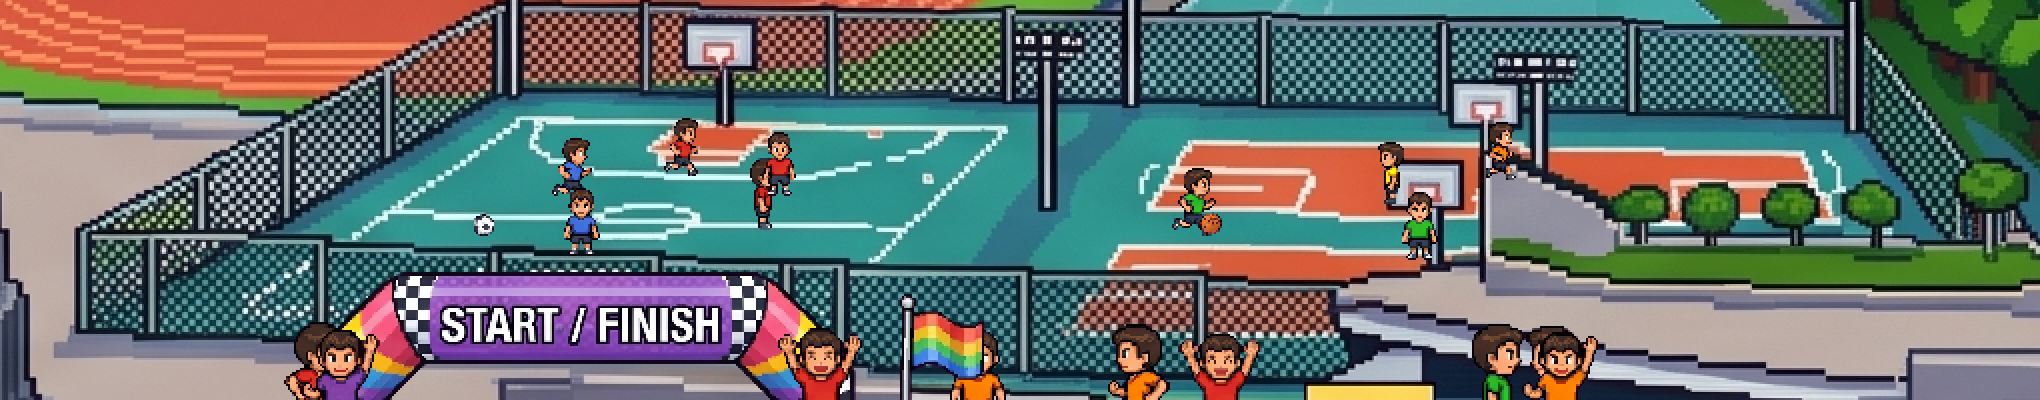
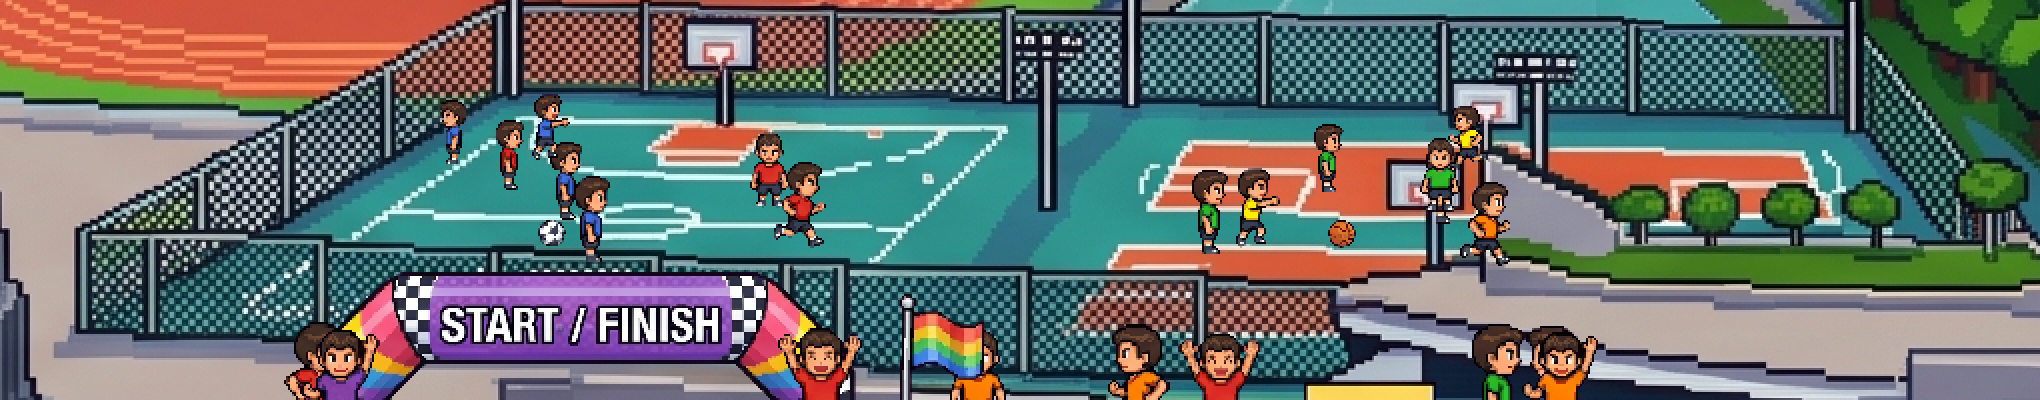
Make court players and water sprinkling actually visible (fix round 2)
Diagnosis (addendum 0006): the traffic fade hid 7-12 of 22 water
effects outright and left only ~6-13 clearly visible - no better than
the original 6 - because eight hull+wake rects blanket most of the
bay. Court players at 30-36px in a 2752px world read as specks.

- Water effects: painter's-algorithm y-layering replaces fading (each
  effect sits just behind the boat lane in front of it, so hulls
  occlude naturally and nothing draws over a hull); 34 effects,
  larger (ripples 95-175px, splashes 55-92px, 40% splash share),
  brighter. Placements still seeded-random inside the measured water
  map only. trafficFadeAt removed; rects kept for the QA overlay.
- Courts: 7 players + ball per court, heights 33-44px graded by depth,
  balls 15px - play now reads at full-scene scale.
- Vitest 20 passing; t=2/6.5 stills + court/water zooms inspected.

Changed region(s): [[0.5559, 0.27, 0.7412, 0.66], [0.2162, 0.24, 0.3397, 0.66], [0.3397, 0.33, 0.4015, 0.6]]

diff --git a/src/scene/scene.ts b/src/scene/scene.ts
@@ -11,7 +11,7 @@ import { createDragonBoat } from "../objects/dragonBoat";
 import { createKayak } from "../objects/kayak";
 import { createHanging, createProp } from "../objects/prop";
 import { createRipple } from "../objects/waterFx";
-import { boatRectsAt, type BoatSpec } from "./traffic";
+import type { BoatSpec } from "./traffic";
 import { placeWaterEffects } from "./waterMap";
 
 export const WORLD_WIDTH = 2752;
@@ -48,7 +48,7 @@ export function buildScene(store: SpriteStore, anchors: Anchors, seed: number): 
     ...buildPeople(store, rng),
     ...buildCourtPlayers(store, rng),
     ...buildBoats(store, anchors, specs),
-    ...buildWaterEffects(store, seed, specs),
+    ...buildWaterEffects(store, seed),
   ];
   return entities.sort((a, b) => a.layer - b.layer);
 }
@@ -151,17 +151,24 @@ function buildPeople(store: SpriteStore, rng: ReturnType<typeof createRng>): Ent
 function buildCourtPlayers(store: SpriteStore, rng: ReturnType<typeof createRng>): Entity[] {
   const layer = L.peopleBack;
   const players: Entity[] = [
-    createPatrol(store, { kit: "red", x1: 1860, x2: 2140, feetY: 1076, height: 36, speedPxPerSec: 62, stridePeriodSec: 0.34, layer, phaseOffset: rng.next() }),
-    createPatrol(store, { kit: "blue", x1: 2140, x2: 1860, feetY: 1062, height: 33, speedPxPerSec: 58, stridePeriodSec: 0.36, layer, phaseOffset: rng.next() }),
-    createPatrol(store, { kit: "red", x1: 1920, x2: 2060, feetY: 1050, height: 30, speedPxPerSec: 48, stridePeriodSec: 0.38, layer, phaseOffset: rng.next() }),
-    createIdler(store, { kit: "blue", x: 1990, feetY: 1088, height: 34, layer, periodSec: rng.range(3.5, 5.5), phaseOffset: rng.next() }),
-    createIdler(store, { kit: "red", x: 2090, feetY: 1058, height: 32, layer, periodSec: rng.range(3.5, 5.5), phaseOffset: rng.next() }),
-    createBall(store, { spriteId: "equipment-v2-11", x1: 1880, x2: 2120, groundY: 1084, diameter: 12, speedPxPerSec: 52, bounceHeight: 7, bouncesPerSec: 1.6, layer, phaseOffset: rng.next() }),
-    createPatrol(store, { kit: "green", x1: 2280, x2: 2540, feetY: 1080, height: 35, speedPxPerSec: 66, stridePeriodSec: 0.34, layer, phaseOffset: rng.next() }),
-    createPatrol(store, { kit: "yellow", x1: 2540, x2: 2300, feetY: 1064, height: 32, speedPxPerSec: 56, stridePeriodSec: 0.36, layer, phaseOffset: rng.next() }),
-    createPatrol(store, { kit: "orange", x1: 2340, x2: 2470, feetY: 1052, height: 30, speedPxPerSec: 46, stridePeriodSec: 0.38, layer, phaseOffset: rng.next() }),
-    createIdler(store, { kit: "green", x: 2410, feetY: 1090, height: 34, layer, periodSec: rng.range(3.5, 5.5), phaseOffset: rng.next() }),
-    createBall(store, { spriteId: "equipment-v2-10", x1: 2300, x2: 2500, groundY: 1088, diameter: 12, speedPxPerSec: 60, bounceHeight: 13, bouncesPerSec: 2.2, layer, phaseOffset: rng.next() }),
+    // Futsal court (red vs blue): 5 shuttles across three depth lanes + 2 callers
+    createPatrol(store, { kit: "red", x1: 1845, x2: 2155, feetY: 1086, height: 44, speedPxPerSec: 70, stridePeriodSec: 0.33, layer, phaseOffset: rng.next() }),
+    createPatrol(store, { kit: "blue", x1: 2155, x2: 1845, feetY: 1072, height: 40, speedPxPerSec: 64, stridePeriodSec: 0.35, layer, phaseOffset: rng.next() }),
+    createPatrol(store, { kit: "red", x1: 1890, x2: 2100, feetY: 1056, height: 36, speedPxPerSec: 54, stridePeriodSec: 0.37, layer, phaseOffset: rng.next() }),
+    createPatrol(store, { kit: "blue", x1: 2100, x2: 1900, feetY: 1044, height: 33, speedPxPerSec: 50, stridePeriodSec: 0.38, layer, phaseOffset: rng.next() }),
+    createPatrol(store, { kit: "blue", x1: 1945, x2: 2055, feetY: 1092, height: 44, speedPxPerSec: 44, stridePeriodSec: 0.36, layer, phaseOffset: rng.next() }),
+    createIdler(store, { kit: "red", x: 2085, feetY: 1064, height: 38, layer, periodSec: rng.range(3.2, 5), phaseOffset: rng.next() }),
+    createIdler(store, { kit: "blue", x: 1975, feetY: 1040, height: 33, layer, periodSec: rng.range(3.2, 5), phaseOffset: rng.next() }),
+    createBall(store, { spriteId: "equipment-v2-11", x1: 1860, x2: 2140, groundY: 1090, diameter: 15, speedPxPerSec: 58, bounceHeight: 8, bouncesPerSec: 1.7, layer, phaseOffset: rng.next() }),
+    // Basketball court (green vs yellow, one orange): same structure
+    createPatrol(store, { kit: "green", x1: 2265, x2: 2560, feetY: 1088, height: 43, speedPxPerSec: 72, stridePeriodSec: 0.33, layer, phaseOffset: rng.next() }),
+    createPatrol(store, { kit: "yellow", x1: 2560, x2: 2280, feetY: 1074, height: 39, speedPxPerSec: 62, stridePeriodSec: 0.35, layer, phaseOffset: rng.next() }),
+    createPatrol(store, { kit: "green", x1: 2320, x2: 2490, feetY: 1058, height: 35, speedPxPerSec: 52, stridePeriodSec: 0.37, layer, phaseOffset: rng.next() }),
+    createPatrol(store, { kit: "yellow", x1: 2480, x2: 2340, feetY: 1046, height: 33, speedPxPerSec: 48, stridePeriodSec: 0.38, layer, phaseOffset: rng.next() }),
+    createPatrol(store, { kit: "orange", x1: 2375, x2: 2465, feetY: 1094, height: 43, speedPxPerSec: 42, stridePeriodSec: 0.36, layer, phaseOffset: rng.next() }),
+    createIdler(store, { kit: "green", x: 2420, feetY: 1066, height: 37, layer, periodSec: rng.range(3.2, 5), phaseOffset: rng.next() }),
+    createIdler(store, { kit: "yellow", x: 2328, feetY: 1084, height: 40, layer, periodSec: rng.range(3.2, 5), phaseOffset: rng.next() }),
+    createBall(store, { spriteId: "equipment-v2-10", x1: 2290, x2: 2510, groundY: 1092, diameter: 15, speedPxPerSec: 66, bounceHeight: 16, bouncesPerSec: 2.3, layer, phaseOffset: rng.next() }),
   ];
   void COURTS; // bounds above are kept inside these measured rectangles
   return players;
@@ -200,28 +207,34 @@ const RIPPLE_SPRITES = ["ripple-v1-01", "ripple-v1-02", "ripple-v1-03", "ripple-
   "ripple-v1-07", "ripple-v2-01", "ripple-v2-03", "ripple-v2-04"] as const;
 const SPLASH_SPRITES = ["splash-01", "splash-02", "splash-03", "splash-v1-01", "splash-v1-02"] as const;
 
+export const WATER_EFFECT_COUNT = 34;
+
 /** Deterministic sprinkling layout: seeded-random points inside the mapped
  *  open water (scene/waterMap.ts), own RNG stream so QA can reproduce it. */
 export function waterEffectPlacements(seed: number): WaterEffectPlacement[] {
   const rng = createRng((seed ^ 0x9e3779b9) >>> 0);
-  return placeWaterEffects(rng, 22).map((point) => {
-    const isSplash = rng.next() < 0.3;
+  return placeWaterEffects(rng, WATER_EFFECT_COUNT, 108).map((point) => {
+    const isSplash = rng.next() < 0.4;
     return {
       x: point.x, y: point.y,
       spriteId: isSplash ? rng.pick(SPLASH_SPRITES) : rng.pick(RIPPLE_SPRITES),
-      width: isSplash ? rng.range(42, 72) : rng.range(78, 148),
-      periodSec: rng.range(2.4, 4.4),
+      width: isSplash ? rng.range(55, 92) : rng.range(95, 175),
+      periodSec: rng.range(2.2, 4.2),
       phaseOffset: rng.next(),
     };
   });
 }
 
-function buildWaterEffects(store: SpriteStore, seed: number, specs: readonly BoatSpec[]): Entity[] {
-  let cached = { t: Number.NaN, rects: [] as ReturnType<typeof boatRectsAt> };
-  const trafficAt = (timeSec: number) => {
-    if (cached.t !== timeSec) cached = { t: timeSec, rects: boatRectsAt(store, specs, timeSec) };
-    return cached.rects;
-  };
+/** Painter's-algorithm layer for a flat water effect: just behind the boat
+ *  lane in front of it (lane waterlines: far ~1388-1402, mid ~1430-1444,
+ *  near ~1470+), so hulls occlude effects behind them naturally. */
+export function layerForWaterEffect(y: number): number {
+  if (y < 1395) return L.boatFar - 1;
+  if (y < 1440) return L.boatMid - 1;
+  return L.boatNear - 1;
+}
+
+function buildWaterEffects(store: SpriteStore, seed: number): Entity[] {
   return waterEffectPlacements(seed).map((placement) =>
-    createRipple(store, { ...placement, layer: L.ripple, trafficAt }));
+    createRipple(store, { ...placement, layer: layerForWaterEffect(placement.y) }));
 }

diff --git a/tests/unit/waterMap.test.ts b/tests/unit/waterMap.test.ts
@@ -1,7 +1,8 @@
 import { describe, expect, it } from "vitest";
 import { createRng } from "../../src/lib/rng";
 import { patrolAt } from "../../src/objects/character";
-import { boatRectsAt, trafficFadeAt, type BoatSpec } from "../../src/scene/traffic";
+import { boatRectsAt, type BoatSpec } from "../../src/scene/traffic";
+import { WATER_EFFECT_COUNT, layerForWaterEffect, waterEffectPlacements } from "../../src/scene/scene";
 import { isOpenWater, placeWaterEffects, shorelineYAt } from "../../src/scene/waterMap";
 import { SpriteStore } from "../../src/lib/sprites";
 import type { SpriteEntry } from "../../src/lib/types";
@@ -65,14 +66,27 @@ describe("patrolAt (court shuttles / boardwalk)", () => {
   });
 });
 
-describe("trafficFadeAt", () => {
-  const rect = { x1: 100, y1: 100, x2: 300, y2: 160 };
-  it("is 0 under a hull, 1 in clear water, partial in between", () => {
-    expect(trafficFadeAt(200, 130, [rect])).toBe(0);
-    expect(trafficFadeAt(200, 400, [rect])).toBe(1);
-    expect(trafficFadeAt(200, 184, [rect], 48)).toBeCloseTo(0.5);
-    expect(trafficFadeAt(0, 0, [])).toBe(1);
+describe("layerForWaterEffect (painter's-algorithm occlusion)", () => {
+  it("places each effect just behind the boat lane in front of it", () => {
+    expect(layerForWaterEffect(1250)).toBeLessThan(40); // behind far lane (layer 40)
+    expect(layerForWaterEffect(1410)).toBeGreaterThan(40);
+    expect(layerForWaterEffect(1410)).toBeLessThan(50); // behind mid lane (50)
+    expect(layerForWaterEffect(1480)).toBeGreaterThan(50);
+    expect(layerForWaterEffect(1480)).toBeLessThan(60); // behind near lane (60)
   });
+});
+
+describe("waterEffectPlacements (the actual scene layout)", () => {
+  it("sprinkles many effects, all in open water", () => {
+    const placements = waterEffectPlacements(20261017);
+    expect(placements).toHaveLength(WATER_EFFECT_COUNT);
+    expect(WATER_EFFECT_COUNT).toBeGreaterThanOrEqual(30);
+    for (const point of placements) expect(isOpenWater(point.x, point.y)).toBe(true);
+    expect(waterEffectPlacements(20261017)).toEqual(placements); // deterministic
+  });
+});
+
+describe("boat traffic occupancy (QA overlay geometry)", () => {
   it("boat rects follow the real boat configs", () => {
     const store = new SpriteStore();
     for (const entry of manifest.sprites as SpriteEntry[]) {

diff --git a/src/objects/waterFx.ts b/src/objects/waterFx.ts
@@ -1,18 +1,16 @@
 /** Ambient water effects (ripples and small splashes) sprinkled on the bay.
- *  Positions come from the water map; a traffic fade (scene/traffic.ts)
- *  dissolves an effect before a hull or wake reaches it. */
+ *  Positions come from the water map (open water only). Effects are layered
+ *  by their y (scene.ts: layerForWaterEffect) just behind the boat lane in
+ *  front of them, so hulls occlude them naturally instead of them being
+ *  faded out wholesale (addendum 0006). */
 import { cyclePhase } from "../lib/anim";
 import { drawSprite, scaledSize } from "../lib/draw";
 import type { SpriteStore } from "../lib/sprites";
 import type { Entity } from "../lib/types";
-import { trafficFadeAt } from "../scene/traffic";
-import type { Rect } from "../scene/waterMap";
 
 export interface RippleConfig {
   spriteId: string; x: number; y: number; width: number;
   periodSec: number; phaseOffset: number; layer: number;
-  /** Boat occupancy at time t; effects fade to 0 under a hull/wake. */
-  trafficAt?: (timeSec: number) => Rect[];
 }
 
 export function createRipple(store: SpriteStore, cfg: RippleConfig): Entity {
@@ -20,13 +18,10 @@ export function createRipple(store: SpriteStore, cfg: RippleConfig): Entity {
   return {
     layer: cfg.layer,
     draw(ctx, env) {
-      const traffic = cfg.trafficAt?.(env.timeSec) ?? [];
-      const trafficFade = trafficFadeAt(cfg.x, cfg.y, traffic);
-      if (trafficFade <= 0.01) return;
       const phase = cyclePhase(env.timeSec, cfg.periodSec, cfg.phaseOffset);
       const scale = 0.75 + 0.5 * phase;
-      const alpha = 0.85 * (1 - phase * phase) * trafficFade;
-      if (alpha <= 0.01) return;
+      const alpha = 0.95 * (1 - phase * phase);
+      if (alpha <= 0.02) return;
       const size = scaledSize(sprite.entry.width, sprite.entry.height, cfg.width * scale);
       drawSprite(ctx, sprite.image, {
         x: cfg.x, y: cfg.y, w: size.w, h: size.h, pivotX: 0.5, pivotY: 0.5, alpha,

diff --git a/src/scene/traffic.ts b/src/scene/traffic.ts
@@ -1,7 +1,7 @@
 /** Boat traffic occupancy at time t, derived from the same pure centre-x
- *  helpers the boat modules draw with — ambient water effects use it to
- *  fade out before a hull (or its wake) reaches them, so effects never
- *  visually clash with passing boats. */
+ *  helpers the boat modules draw with. Used by the QA watermap overlay to
+ *  show where hulls/wakes are; run-time occlusion of ambient water effects
+ *  is handled by y-layering in scene.ts (addendum 0006). */
 import { scaledSize } from "../lib/draw";
 import type { SpriteStore } from "../lib/sprites";
 import { dragonCentreXAt, type DragonBoatConfig } from "../objects/dragonBoat";
@@ -31,17 +31,4 @@ export function boatRectAt(store: SpriteStore, spec: BoatSpec, timeSec: number):
 
 export function boatRectsAt(store: SpriteStore, specs: readonly BoatSpec[], timeSec: number): Rect[] {
   return specs.map((spec) => boatRectAt(store, spec, timeSec));
-}
-
-function clearanceTo(x: number, y: number, rect: Rect): number {
-  const dx = Math.max(rect.x1 - x, 0, x - rect.x2);
-  const dy = Math.max(rect.y1 - y, 0, y - rect.y2);
-  return Math.hypot(dx, dy);
-}
-
-/** 0 when a boat is on top of (x, y), 1 once it is `fadeDistance` clear. */
-export function trafficFadeAt(x: number, y: number, rects: readonly Rect[], fadeDistance = 48): number {
-  if (rects.length === 0) return 1;
-  const nearest = Math.min(...rects.map((rect) => clearanceTo(x, y, rect)));
-  return Math.min(1, nearest / fadeDistance);
 }

diff --git a/docs/addenda/0006-visible-fix-round-2.md b/docs/addenda/0006-visible-fix-round-2.md
@@ -1,0 +1,25 @@
+# Addendum 0006 — Why the first fix round wasn't visible, and the correction
+
+- **Date:** 2026-10-17 · **Relates to:** addendum 0005, spec §5–§6
+- **User report:** after 0005, only the waterfront-path fix was perceptible;
+  courts/water effects looked unchanged. Diagnosis was measured, not guessed:
+- **Water effects:** the traffic fade was eating the sprinkling. With the
+  real placements and boat configs, average fade over all 22 effects was
+  0.37–0.64 depending on t, with 7–12 of 22 fully hidden and only 6–13
+  clearly visible *before* each effect's own pulse dimming — about the same
+  visible count as the original 6 fixed ripples. Root cause: each boat's
+  fade rect is hull∪wake (≈975×130px for a dragon boat), so eight boats
+  blanketed most of the bay. Fix: painter's-algorithm occlusion instead of
+  fading — each flat effect is layered just behind the boat lane in front
+  of it (`layerForWaterEffect`), so hulls hide what's behind them and
+  effects below a waterline never draw over a hull. Count 22 → 34,
+  sizes up (ripples 95–175px, splashes 55–92px, splash share 40%),
+  brightness 0.85 → 0.95. `trafficFadeAt` removed; occupancy rects remain
+  for the QA watermap overlay.
+- **Ball courts:** players existed but at 30–36px in a 2752px world they
+  read as specks. Squads enlarged to 7 per court (+ ball), heights raised
+  to 33–44px graded by court depth (still inside the measured surfaces),
+  balls 12 → 15px. Verified in qa/zoom-courts.png and the full still.
+- **Unchanged:** waterfront paths/boardwalk patrols (user-confirmed good).
+- **Validation:** Vitest 20 passing (layer-band and 34-placement suites),
+  stills at t=2/6.5 + court/water zooms inspected.
